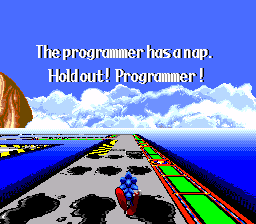
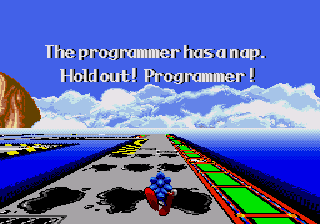
25/05/2021

Changed region(s): [[0.0, 0.1875, 1.0, 1.0]]

diff --git a/index.html b/index.html
@@ -13,7 +13,8 @@
 </head>
 
 <body>
-    <main>
+    <!-- Conteúdo da página -->
+    <main class="principal">
         <h1>Sonic The Hedgehog CD (1993)</h1>
         <p><img class="img-soniccd" src="img/sonicdtitlescreen.png" alt=""> Tudo acontece entre Sonic The Hedgehog 1 e
             Sonic the Hedgehog 2, em um pequeno mundo chamado "Little Planet", que surge em Never Lake uma vez por ano,
@@ -23,8 +24,8 @@
             Sonic.</p>
         <p>Nesta página, iremos mostrar algumas curiosidades sobre as fases e os protótipos que foram descobertos desse
             game.</p>
-
-        <div class="conteudos-sessao">
+        <!-- Índice / Navegação -->
+        <nav class="navegacao">
             <h1>Conteúdos</h1>
             <ol class="a">
                 <li><a href="#Fases">1. Fases</a></li>
@@ -42,6 +43,7 @@
                     <li><a href="#R2">2.1. R2</a></li>
                     <li><a href="#Salad-Plain?">2.2. Salad Plain?</a></li>
                     <li><a href="#Special-Stage-descartado">2.3. Special Stage descartado</a></li>
+                    <li><a href="#Viagem-no-tempo">2.4. Viagem no tempo</a></li>
                 </ol>
                 <li><a href="#Prototype-510">3. Prototype 510</a></li>
                 <ol class="c">
@@ -50,11 +52,11 @@
                     <li><a href="#Special-Stage">3.3. Special Stage</a></li>
                 </ol>
             </ol>
-        </div>
+        </nav>
 
         <h1 id="Fases">Fases</h1>
         <h2 id="Palmtree-Panic">Palmtree Panic</h2>
-        <img class="img-palmtree-panic" src="img/palmtreepanic.png" alt="Palmtree Panic">
+        <img class="imagens-grandes" src="img/palmtreepanic.png" alt="Palmtree Panic">
         <ul>
             <li>Se você tiver olhos bens atentos, poderá perceber que essa fase é a reimaginação da Green Hill Zone de
                 Sonic the Hedgehog 1.</li>
@@ -67,7 +69,7 @@
                 posteriormente descartado.</li>
         </ul>
         <h2 id="Collision-Chaos">Collision Chaos</h2>
-        <img class="img-collision-chaos" src="img/collisionchaos.png" alt="Collision Chaos">
+        <img class="imagens-grandes" src="img/collisionchaos.png" alt="Collision Chaos">
         <ul>
             <li>Essa é a fase equivalente à Spring Yard Zone de Sonic The Hedgehog 1.</li>
             <li>Em um dos protótipos, Metal Sonic seria capaz de causar dano ao jogador no início do primeiro ato, isso
@@ -76,7 +78,7 @@
                 diferentes level designs das linhas temporais e da física da viagem no tempo.</li>
         </ul>
         <h2 id="Tidal-Tempest">Tidal Tempest</h2>
-        <img class="img-tidal-tempest" src="img/tidaltempest.png" alt="Tidal Tempest">
+        <img class="imagens-grandes" src="img/tidaltempest.png" alt="Tidal Tempest">
         <ul>
             <li>Essa é a fase equivalente a Labyrinth Zone, a temida e típica fase debaixo d'água.</li>
             <li>Essa é a única fase no jogo onde não é mostrada na sequência de créditos ao zerar o jogo.</li>
@@ -86,7 +88,7 @@
         </ul>
 
         <h2 id="Quartz-Quadrant">Quartz Quadrant</h2>
-        <img class="img-quartz-quadrant" src="img/quartzquadrant.png" alt="Quartz Quadrant">
+        <img class="imagens-grandes" src="img/quartzquadrant.png" alt="Quartz Quadrant">
         <ul>
             <li>Quartz Quadrant é uma das duas fases fases que não possui uma contraparte de Sonic 1.</li>
             <li>A versão americana da música do futuro bom dessa fase foi remixada para a faixa N´rrgal Colony em Sonic
@@ -96,7 +98,7 @@
         </ul>
 
         <h2 id="Wacky-Workbench">Wacky Workbench</h2>
-        <img class="img-wacky-workbench" src="img/wackyworkbench.png" alt="Wacky Workbench">
+        <img class="imagens-grandes" src="img/wackyworkbench.png" alt="Wacky Workbench">
         <ul>
             <li>Outra fase que não possui uma contraparte de Sonic 1.</li>
             <li>No Ato 1, existe uma sala secreta que se encontra abaixo da primeira placa de "Passado" para viajar no
@@ -109,7 +111,7 @@
         </ul>
 
         <h2 id="Stardust-Speedway">Stardust Speedway</h2>
-        <img class="img-stardust-speedway" src="img/stardustspeedway.png" alt="Stardust Speedway">
+        <img class="imagens-grandes" src="img/stardustspeedway.png" alt="Stardust Speedway">
         <ul>
             <li>Essa fase é a contraparte da Star Light Zone, mas também é bem semelhante a Chemical Plant de Sonic 2.
             </li>
@@ -118,7 +120,7 @@
         </ul>
 
         <h2 id="Metallic-Madness">Metallic Madness</h2>
-        <img class="img-metallic-madness" src="img/metallicmadness.png" alt="Metallic Madness">
+        <img class="imagens-grandes" src="img/metallicmadness.png" alt="Metallic Madness">
         <ul>
             <li>Essa fase é a contraparte da Scrap Brain.</li>
             <li>O ato 3 é o único em todo o jogo a ter uma queda mortal</li>
@@ -153,9 +155,9 @@
             </div>
         </div>
         <ul>
-            <li>Não é possível ter um futuro bom nessa build. Entretanto, os arquivos de fase para o futuro bom estão
+            <li>Não é possível ter um futuro bom nessa build. Entretanto, os arquivos da fase para o futuro bom estão
                 presentes no disco.</li>
-            <li>A paleta de cores dessa fase é diferente, apresentando algumas ligeiras mudanças. os dados da paleta de
+            <li>A paleta de cores dessa fase é diferente, apresentando algumas ligeiras mudanças. Os dados da paleta de
                 cores e os dados do ciclo da paleta ainda se encontram no jogo final.</li>
             <li>O presente tem um fundo diferente, sendo a diferença mais notável as montanhas mais curtas e menos
                 geométricas. Este fundo precoce é a base para os fundos das outras linhas do tempo, que se mantiveram
@@ -169,15 +171,24 @@
         <p>Segundo um funcionário da SEGA da Europa, a ideia originalmente era de que o jogo tivesse uma oitava Time
             Stone. Ao coletá-la, os monitores de áneis automaticamente se transfomariam no monitor com a letra "S", que
             já foi citado acima, que daria poderes de invencibilidade e super velocidade ao mesmo tempo.</p>
-        <p>Se vencer essa Special Stage oculta, você verá uma tela oculta da Special Stage com o tema final do jogo
+        <p>Ao vencer esse Special Stage secreto, você verá uma tela oculta da Special Stage com o tema final do jogo
             tocando.</p>
+
+        <h2 id="Viagem-no-tempo">Viagem do tempo</h2>
+        <p>A tela de carregamento da viagem no tempo em um dos protótipos (mais especificadamente, o protótipo v0.02) era bastante diferente da versão final, com os gráficos e a animação ainda bem simples.</p>
+        <img class="img-timewarp" src="img/timewarp.png" alt="">
+        <ul>
+            <li>O efeito sonoro da viagem no tempo era também bastante diferente da versão final, sendo um barulho bem alto e irritante.</li>
+            <li>As placas que fazem Sonic viajar no tempo ainda não tinham efeitos sonoros.</li>
+            <li>A viagem no tempo parece não funcionar corretamente, pois ao tentar viajar usando os "spinners" da Palmtree Panic fará com que a fase atual seja reiniciada, em vez de permitir que o Sonic viaje no tempo.</li>
+        </ul>
 
         <h1 id="Prototype-510">Prototype 510</h1>
         <h2 id="CD-Sonic">CD Sonic</h2>
-        <img class="img-cd-sonic" src="img/cdsonictitlescreen.png" alt="">
+        <img class="imagens-grandes" src="img/cdsonictitlescreen.png" alt="">
         <p>Protótipo 510, por vezes conhecido como CD Sonic the Hedgehog, é um protótipo antecipado do Sonic CD. A sua
             data de compilação é 10 de Maio de 1993. O protótipo mostra o jogo quando estava aproximadamente a meio
-            caminho de ser concluído, todos os níveis são funcionais, embora apenas três possam ser acessados sem level
+            caminho de ser concluído, todas as fases são jogáveis, embora apenas três possam ser acessados sem level
             select. Há também bastantes diferenças para a versão final, desde o áudio inicial até aos power-ups
             adicionais.
         </p>
@@ -215,11 +226,11 @@
             <li>O design do Special Stage é semelhante ao da segunda fase do jogo final. Sonic não é mostrado parado,
                 ele imediatamente começa a andar e rapidamente começa a correr. Ele também não possui uma sombra ainda,
                 e não há um title card ou display de heads-up. </li>
-            <li>O óleo no chão é uma das principais características deste layout de protótipo. Embora os gráficos
+            <li>O óleo no chão, que posteriormente foi removido, é uma das principais características deste layout de protótipo. Embora os gráficos
                 existam no disco, o óleo foi removido de todos os Special Stages mais tarde no desenvolvimento. </li>
         </ul>
     </main>
-
+    <!-- Rodapé da página -->
     <footer class="footer">
         <div class="footer-top">
             <a href="https://twitter.com/Fiuuuh_" target="_blank"><img src="img/icons/twitter.png" alt=""></a>

diff --git a/css/style.css b/css/style.css
@@ -11,12 +11,12 @@ body {
     padding: 0;
 }
 
-main {
+.principal {
     background-color: #101010;
     text-align: justify;
     color: #ffffff;
     font-size: 16px;
-    width: 1050px;
+    width: 80%;
     padding: 15px;
     margin: auto;
 }
@@ -28,10 +28,14 @@ main {
 
 .img-soniccd {
     float: right;
+    width: 100%;
+    max-width: 320px;
+    max-height: 244px;
+    height: auto;
     margin-left: 15px;
 }
 
-.conteudos-sessao {
+.navegacao {
     background-color: #000000;
     width: fit-content;
     padding: 15px;
@@ -65,99 +69,32 @@ a:hover {
 .img-title-screen {
     margin-left: auto;
     margin-right: auto;
+    width: 100%;
+    max-width: 320px;
+    max-height: 244px;
+    height: auto;
     display: block;
 }
 
-.img-palmtree-panic {
+.imagens-grandes {
     image-rendering: auto;
     image-rendering: crisp-edges;
     image-rendering: pixelated;
     margin-left: auto;
     margin-right: auto;
-    width: 640px;
-    height: 448px;
-    display: block;
-}
-
-.img-collision-chaos {
-    image-rendering: auto;
-    image-rendering: crisp-edges;
-    image-rendering: pixelated;
-    margin-left: auto;
-    margin-right: auto;
-    width: 640px;
-    height: 448px;
-    display: block;
-}
-
-.img-tidal-tempest {
-    image-rendering: auto;
-    image-rendering: crisp-edges;
-    image-rendering: pixelated;
-    margin-left: auto;
-    margin-right: auto;
-    width: 640px;
-    height: 448px;
-    display: block;
-}
-
-.img-quartz-quadrant {
-    image-rendering: auto;
-    image-rendering: crisp-edges;
-    image-rendering: pixelated;
-    margin-left: auto;
-    margin-right: auto;
-    width: 640px;
-    height: 448px;
-    display: block;
-}
-
-.img-wacky-workbench {
-    image-rendering: auto;
-    image-rendering: crisp-edges;
-    image-rendering: pixelated;
-    margin-left: auto;
-    margin-right: auto;
-    width: 640px;
-    height: 448px;
-    display: block;
-}
-
-.img-stardust-speedway {
-    image-rendering: auto;
-    image-rendering: crisp-edges;
-    image-rendering: pixelated;
-    margin-left: auto;
-    margin-right: auto;
-    width: 640px;
-    height: 448px;
-    display: block;
-}
-
-.img-metallic-madness {
-    image-rendering: auto;
-    image-rendering: crisp-edges;
-    image-rendering: pixelated;
-    margin-left: auto;
-    margin-right: auto;
-    width: 640px;
-    height: 448px;
-    display: block;
-}
-
-.img-cd-sonic {
-    image-rendering: auto;
-    image-rendering: crisp-edges;
-    image-rendering: pixelated;
-    margin-left: auto;
-    margin-right: auto;
-    width: 640px;
-    height: 448px;
+    width: 100%;
+    height: auto;
+    max-width: 640px;
+    max-height: 448px;
     display: block;
 }
 
 .img-sp-cdsonic {
     float: right;
+    width: 100%;
+    max-width: 320px;
+    max-height: 244px;
+    height: auto;
     margin-left: 15px;
 }
 
@@ -187,6 +124,12 @@ figcaption {
     margin-left: 15px;
 }
 
+.img-timewarp {
+    display: block;
+    margin-left: auto;
+    margin-right: auto;
+}
+
 .footer {
     background-color: #000000;
     padding: 10px;
@@ -204,10 +147,10 @@ figcaption {
 
 .footer-middle {
     text-align: center;
-    color: #ffffff;
+    color: #ffffff; 
 }
 
 .footer-bottom {
     text-align: center;
-    color: #ffffff;    
+    color: #ffffff;
 }
